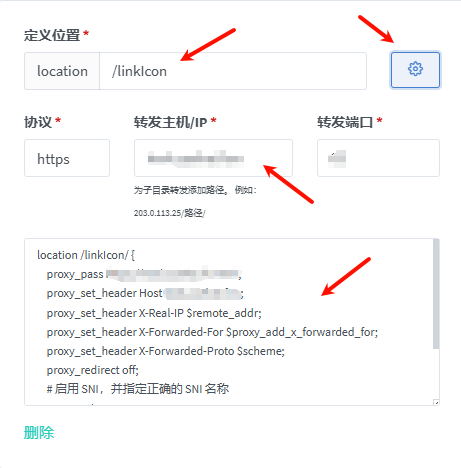
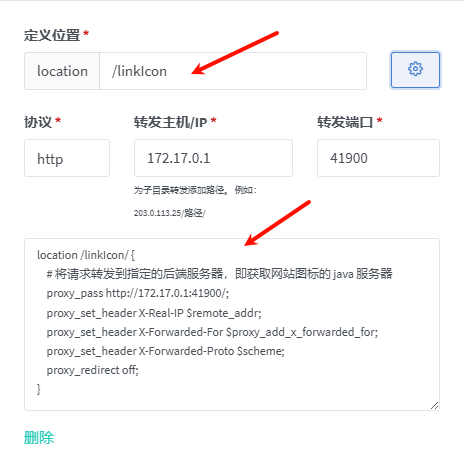
修改说明文件，解决验证问题

diff --git a/vite.config.js b/vite.config.js
@@ -26,12 +26,19 @@ export default defineConfig({
                 // 重写请求路径，将 /api 前缀去掉，转发时路径为原始路径；例如：/api/data/findDuplicate -> /data/findDuplicate
                 rewrite: (path) => path.replace(/^\/oneNavApi/, ''),
                 // 更改请求的源站，伪装为目标服务器发送请求，解决跨域问题
-                changeOrigin: true
+                changeOrigin: true,
+                // 添加 onProxyReq 钩子来设置 cookie
+                configure: (proxy) => {
+                    proxy.on('proxyReq', (proxyReq) => {
+                        // 设置想要发送到目标服务器的 cookie
+                        proxyReq.setHeader('Cookie', 'key=*');
+                    });
+                }
             },
-            // 将 /faviconkit 开头的请求转发到 Favicon Kit api
-            '/faviconkit': {
-                target: 'https://api.faviconkit.com',
-                rewrite: (path) => path.replace(/^\/faviconkit/, ''),
+            // 将 /linkIcon 开头的请求转发到自己部署的获取网站图标的后台接口
+            '/linkIcon': {
+                target: 'http://127.0.0.1:10300',
+                rewrite: (path) => path.replace(/^\/linkIcon/, ''),
                 changeOrigin: true,
                 // 忽略 SSL 证书验证，解决 SSL 证书问题
                 secure: false

diff --git a/README.md b/README.md
@@ -106,105 +106,120 @@ chishin/nginx-proxy-manager-zh:latest
 
 ![上传编译后的文件到指定目录.png](doc/images/上传编译后的文件到指定目录.png)
 
-## 3、代理设置
+# 六、代理设置
 
-> 本次代理域名是 ip + 路径，因为阿里云没有备案不能被解析为域名
+## 1、oneNav 后台的一些说明
 
-### ①、基础设置
+1. 发开前端的过程中发现，oneNav 的接口都是基于相对路径的，所以前端页面的访问地址和后端接口的访问地址最好在同一域名下，这样可以通用 cookie
+2. 如果前端页面和后端接口不在同一域名下，则需要在前端页面的代理中配置后端接口的 cookie，否则会验证失败
+3. 下面是两种情况的配置方法，最后还有通用的配置
 
-1. 进入 nginx-proxy-manager 的管理后台：[http://127.0.0.1:81](http://127.0.0.1:81)
-2. 点击主机 -> 代理服务 -> 添加代理服务
+## 2、和 onenav 后台在同一子域名下
 
-![进入设置代理页面.png](doc/images/进入设置代理页面.png)
+### <span id="6-2">①、基础代理设置</span>
 
-3. 设置一个代理：
-   1. 域名：本服务器的 ip
-   2. 协议：http；没有域名，无法设置证书，也就没有 https
-   3. 转发主机/IP：本服务器的 ip
-   4. 转发端口：80，如果不可用，自定义其他的端口也可以
-   5. 缓存资源、阻止常见漏洞、支持 WebSockets 不要开启
+1. 因为是和 onenav 后台在同一子域名下，所以只需要配置 oneNav 后台的代理即可
+2. 这里假设 oneNav 后台是部署在 docker 容器中
+   1. docker 网络模式是 bridge 模式，即 ip 是：172.17.0.1
+   2. oneNav 后台映射出来的的端口是 41043 
+3. 配置详情如下，配置后访问：`https://域名:端口/` 即可访问 onenav 默认前端主题页面
 
-![添加代理配置.png](doc/images/添加代理配置.png)
+![在同一子域名下的基础代理设置.png](doc/images/在同一子域名下的基础代理设置.png)
 
-### ②、添加自定义位置：`/oneNav`
+### <span id="6-3">②、添加自定义位置：`/web`</span>
 
-> 该位置用于访问 oneNav 主题的前端页面
+> 该位置用于访问该项目的前端页面
 
 1. 点击自定义位置：
-   1. 定义位置：`/oneNav`
+   1. 定义位置：`/web`
    2. 协议：http
    3. 转发主机/IP：`127.0.0.1`
    4. 转发端口：`80`
-2. 然后点击定义位置后的齿轮按钮，在输入框中输入以下内容：
-   1. `location /oneNav {}`：匹配访问路径 `/oneNav` 的请求
-   2. `alias /data/web/oneNav-theme-yuehai;`：alias 设定了路径映射，表示 当请求 `/oneNav/xxx` 时，Nginx 实际访问 `/data/web/oneNav-theme-yuehai/xxx`
-   3. `index index.html;`：当访问 `/oneNav/` 目录时，默认返回 `index.html`
+2. 然后点击定义位置后的齿轮按钮，在输入框中输入以下内容
+3. 配置后访问：`https://域名:端口/web` 即可访问该项目的前端页面
 
 ```nginx
-location /oneNav {
+location /web {
+    # alias 设定了路径映射，表示 当请求 `/oneNav/xxx` 时，Nginx 实际访问 `/data/web/oneNav-theme-yuehai/xxx`
     alias /data/web/oneNav-theme-yuehai;
+    # 当访问 `/oneNav/` 目录时，默认返回 `index.html`
     index index.html;
 }
 ```
 
-![添加自定义位置oneNav.png](doc/images/添加自定义位置oneNav.png)
+![在同一子域名下的添加自定义位置oneNav.png](doc/images/在同一子域名下的添加自定义位置web.png)
 
 ### ③、添加自定义位置：`/oneNavApi`
 
-> 该位置用于访问 oneNav 主题的后端接口
+> 该位置用于访问 oneNav 主题的后端接口，获取导航书签数据
 
 1. 点击添加位置，设置第二个自定义位置：
    1. 定义位置：`/oneNavApi`
    2. 协议：http
-   3. 转发主机/IP：部署 oneNav 的服务器 ip
-   4. 转发端口：部署 oneNav 的服务器端口
+   3. 转发主机/IP：部署 oneNav 的服务器 ip，即上面的 `172.17.0.1`
+   4. 转发端口：部署 oneNav 的服务器端口，即上面的 `41043`
 2. 然后点击定义位置后的齿轮按钮，在输入框中输入以下内容：
-   1. `proxy_pass http://oneNav服务器Ip:oneNav服务器端口/;`：将请求转发到指定的后端服务器，即部署 oneNav 的服务器
-   2. `proxy_set_header Host $host;`：设置 Host 请求头为客户端请求时的主机名
-   3. `proxy_set_header X-Real-IP $remote_addr;`：设置 X-Real-IP 请求头为客户端的真实 IP
-   4. `proxy_set_header X-Forwarded-For $proxy_add_x_forwarded_for;`：设置 X-Forwarded-For 请求头，包含请求经过的所有代理服务器的 IP
-   5. `proxy_set_header X-Forwarded-Proto $scheme;`：设置 X-Forwarded-Proto 请求头，表示客户端使用的协议（http 或 https）
 
 ```nginx
 location /oneNavApi/ {
-    proxy_pass http://oneNav服务器Ip:oneNav服务器端口/;
-    proxy_set_header Host $host;
-    proxy_set_header X-Real-IP $remote_addr;
-    proxy_set_header X-Forwarded-For $proxy_add_x_forwarded_for;
-    proxy_set_header X-Forwarded-Proto $scheme;
+    # 强制重写路径，即将请求路径中的 `/oneNavApi/` 替换为 `/`
+    rewrite ^/oneNavApi/(.*)$ /$1 break; 
+    # 将请求转发到指定的后端服务器，即部署 oneNav 的服务器
+    proxy_pass http://172.17.0.1:41043; 
+
+    # 动态传递客户端的 Cookie，用于 oneNav 后端的身份验证
+    proxy_set_header Cookie $http_cookie; 
 }
 ```
 
-![添加自定义位置oneNavApi.png](doc/images/添加自定义位置oneNavApi.png)
+![在同一子域名下的添加自定义位置oneNavApi.png](doc/images/在同一子域名下的添加自定义位置oneNavApi.png)
 
-### ④、~~添加自定义位置：`/faviconkit`~~（废弃）
+## 3、和 onenav 后台不在同一子域名下
 
-> 该位置用于访问获取网站图标的 api 接口
-> 
-> 该位置已经不需要了，因为网站似乎已经关闭了
+### ①、基础代理设置
 
-1. 点击添加位置，设置第三个自定义位置：
-   1. 定义位置：`/faviconkit`
-   2. 协议：https
-   3. 转发主机/IP：`api.faviconkit.com`
-   4. 转发端口：`80`
-2. 然后点击定义位置后的齿轮按钮，在输入框中输入以下内容：
-   1. `proxy_pass https://api.faviconkit.com/;`：将请求转发到指定的后端服务器，即 api.faviconkit.com
-   2. `proxy_set_header Host api.faviconkit.com;`：设置 Host 请求头为 api.faviconkit.com，否则 api.faviconkit.com 会返回 403
+1. 因为是和 onenav 后台不在同一子域名下，所以需要配置 onenav 后台的代理、前端页面的代理
+2. onenav 后台的代理和上面 [和 onenav 后台在同一子域名下的基础代理设置](#6-2) 的配置一样
+3. 前端页面的代理配置如下，其中的 协议、转发主机/IP、转发端口 都是占位，没有实际作用
+
+![不在同一子域名下的基础代理设置.png](doc/images/不在同一子域名下的基础代理设置.png)
+
+### ②、添加自定义位置：`/web`
+
+1. 此处添加自定义位置和上面 [和 onenav 后台在同一子域名下的添加自定义位置：`/web`](#6-3) 的配置一样
+2. 配置后访问：`https://域名:端口/web` 即可访问该项目的前端页面
+
+### ③、添加自定义位置：`/oneNavApi`
+
+1. 此处添加自定义位置和上面不同，首先需要进入部署的 oneNav 后台
+2. 登录后，按 f12 打开开发者工具，然后点击我的连接，在开发者工具的 Network 面板中，找到 `/index.php` 请求，复制其中的 cookie 值
+
+![不在同一子域名下的添加自定义位置oneNavApi的获取cookie.png](doc/images/不在同一子域名下的添加自定义位置oneNavApi的获取cookie.png)
+
+3. 回到 nginx，点击添加位置，设置第二个自定义位置：
+   1. 定义位置：`/oneNavApi`
+   2. 协议：http
+   3. 转发主机/IP：部署 oneNav 的服务器 ip，即上面的 `172.17.0.1`
+   4. 转发端口：部署 oneNav 的服务器端口，即上面的 `41043`
+4. 然后点击定义位置后的齿轮按钮，在输入框中输入以下内容，将最后一行的 `key=***` 替换为上面复制的 cookie 值
 
 ```nginx
-location /faviconkit/ {
-    proxy_pass https://api.faviconkit.com/;
-    proxy_set_header Host api.faviconkit.com;
-    proxy_set_header X-Real-IP $remote_addr;
-    proxy_set_header X-Forwarded-For $proxy_add_x_forwarded_for;
-    proxy_set_header X-Forwarded-Proto $scheme;
+location /oneNavApi/ {
+    # 强制重写路径，即将请求路径中的 `/oneNavApi/` 替换为 `/`
+    rewrite ^/oneNavApi/(.*)$ /$1 break; 
+    # 将请求转发到指定的后端服务器，即部署 oneNav 的服务器
+    proxy_pass http://172.17.0.1:41043; 
+
+    # 动态传递客户端的 Cookie，用于 oneNav 后端的身份验证
+    proxy_set_header Cookie 'key=***';
 }
 ```
 
-![添加自定义位置faviconkit.png](doc/images/添加自定义位置faviconkit.png)
+![不在同一子域名下的添加自定义位置oneNavApi.png](doc/images/不在同一子域名下的添加自定义位置oneNavApi.png)
 
-### ⑤、添加自定义位置：`/linkIcon`
+## 4、通用配置
+
+### ①、添加自定义位置：`/linkIcon`
 
 > 1. 该位置用于访问获取网站图标的 api 接口；因为上面的 faviconkit 不能用了，所以自己写了一个
 > 2. 对应的 java 后端程序：[yuehai-tool-1.0-SNAPSHOT-jar-with-dependencies.jar](doc/project/yuehai-tool-1.0-SNAPSHOT-jar-with-dependencies.jar)
@@ -220,23 +235,34 @@ location /faviconkit/ {
 
 ```nginx
 location /linkIcon/ {
-    proxy_pass https://127.0.0.1:10300/;
-    proxy_set_header Host 127.0.0.1;
+    # 将请求转发到指定的后端服务器，即获取网站图标的 java 服务器
+    proxy_pass http://172.17.0.1:41900/;
+    # 设置转发请求头中的 X-Real-IP 字段，值为发起请求的客户端的真实 IP 地址
     proxy_set_header X-Real-IP $remote_addr;
+    # 设置转发请求头中的 X-Forwarded-For 字段，用于追踪经过多层代理的请求源 IP
     proxy_set_header X-Forwarded-For $proxy_add_x_forwarded_for;
+    # 设置转发请求头中的 X-Forwarded-Proto 字段，值为原始请求使用的协议（http 或 https）
     proxy_set_header X-Forwarded-Proto $scheme;
+    # 关闭 Nginx 自动修改后端服务器响应头中的 Location 和 Refresh 字段
+    # 通常在后端能正确处理重定向时设为 off，以避免不必要的修改
     proxy_redirect off;
-    # 启用 SNI，并指定正确的 SNI 名称
-    proxy_ssl_server_name on;
-    proxy_ssl_name 127.0.0.1;
+    
+    # 如果代理为了 https 协议，则需要以下配置
+    # 设置转发到后端服务器的请求头中的 Host 字段
+    # proxy_set_header Host www.test.com;
+    # 启用 SNI（服务器名称指示）功能，在与后端服务器建立 SSL/TLS 连接时
+    # 允许 Nginx 发送主机名，以便后端服务器能根据不同域名返回正确的 SSL 证书
+    # proxy_ssl_server_name on;
+    # 指定在与后端服务器进行 SSL/TLS 握手时使用的 SNI 名称，明确告诉后端，Nginx 是代表 www.test.com 这个域名来请求的
+    # proxy_ssl_name www.test.com;
 }
 ```
 
-![img.png](doc/images/添加自定义位置linkIcon.png)
+![添加自定义位置linkIcon.png](doc/images/添加自定义位置linkIcon.png)
 
-### ⑥、保存配置
+## 5、配置结束
 
 1. 设置完毕后，点击保存即可
-2. 最后访问：http://127.0.0.1/oneNav
+2. 最后访问：`https://域名:端口/web`  即可访问该项目的前端页面
 
 
